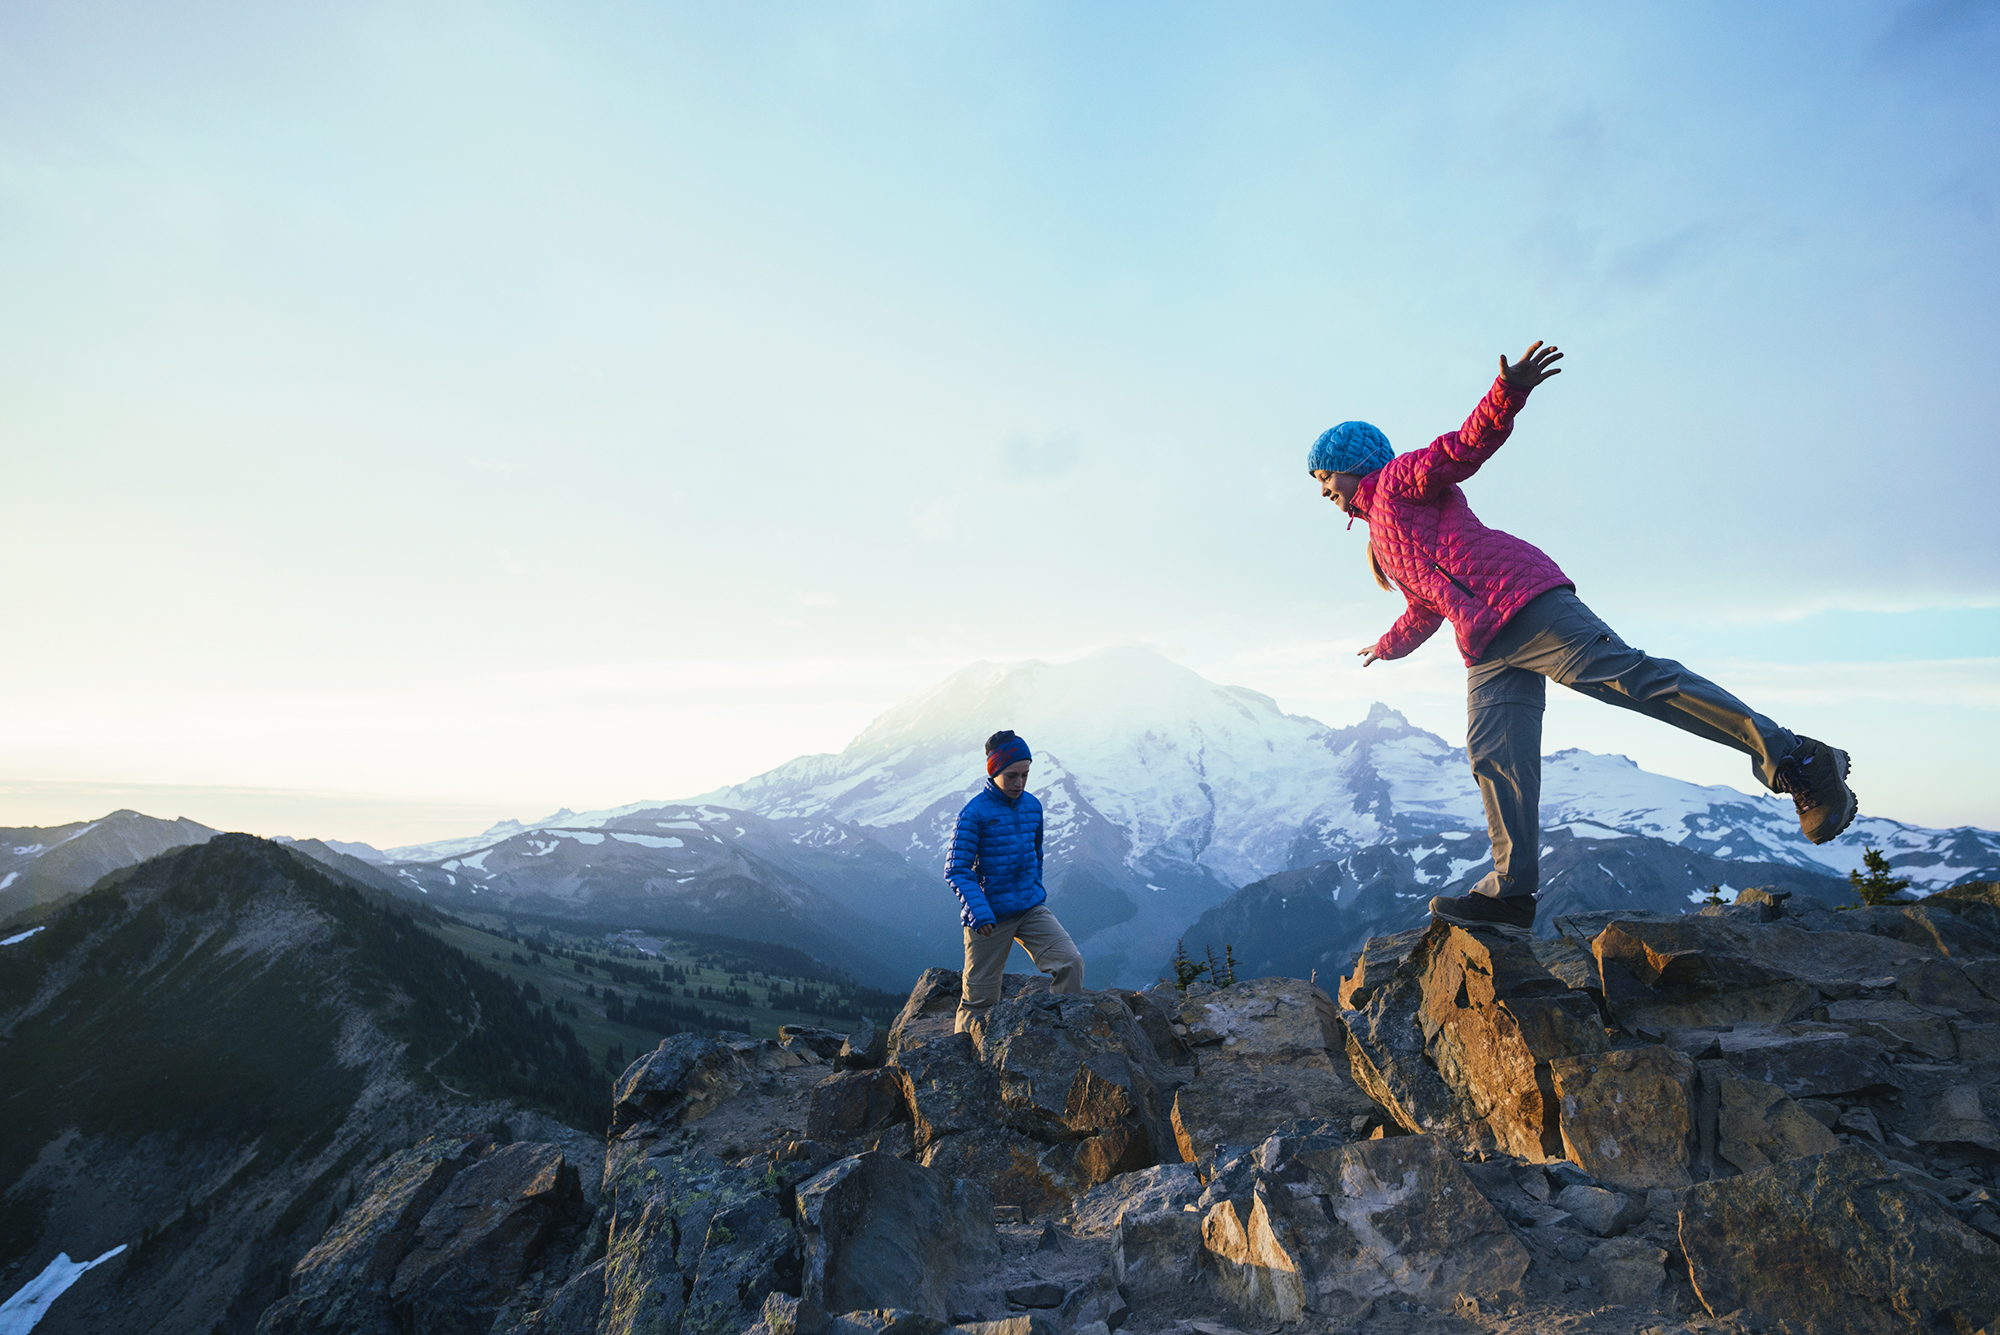
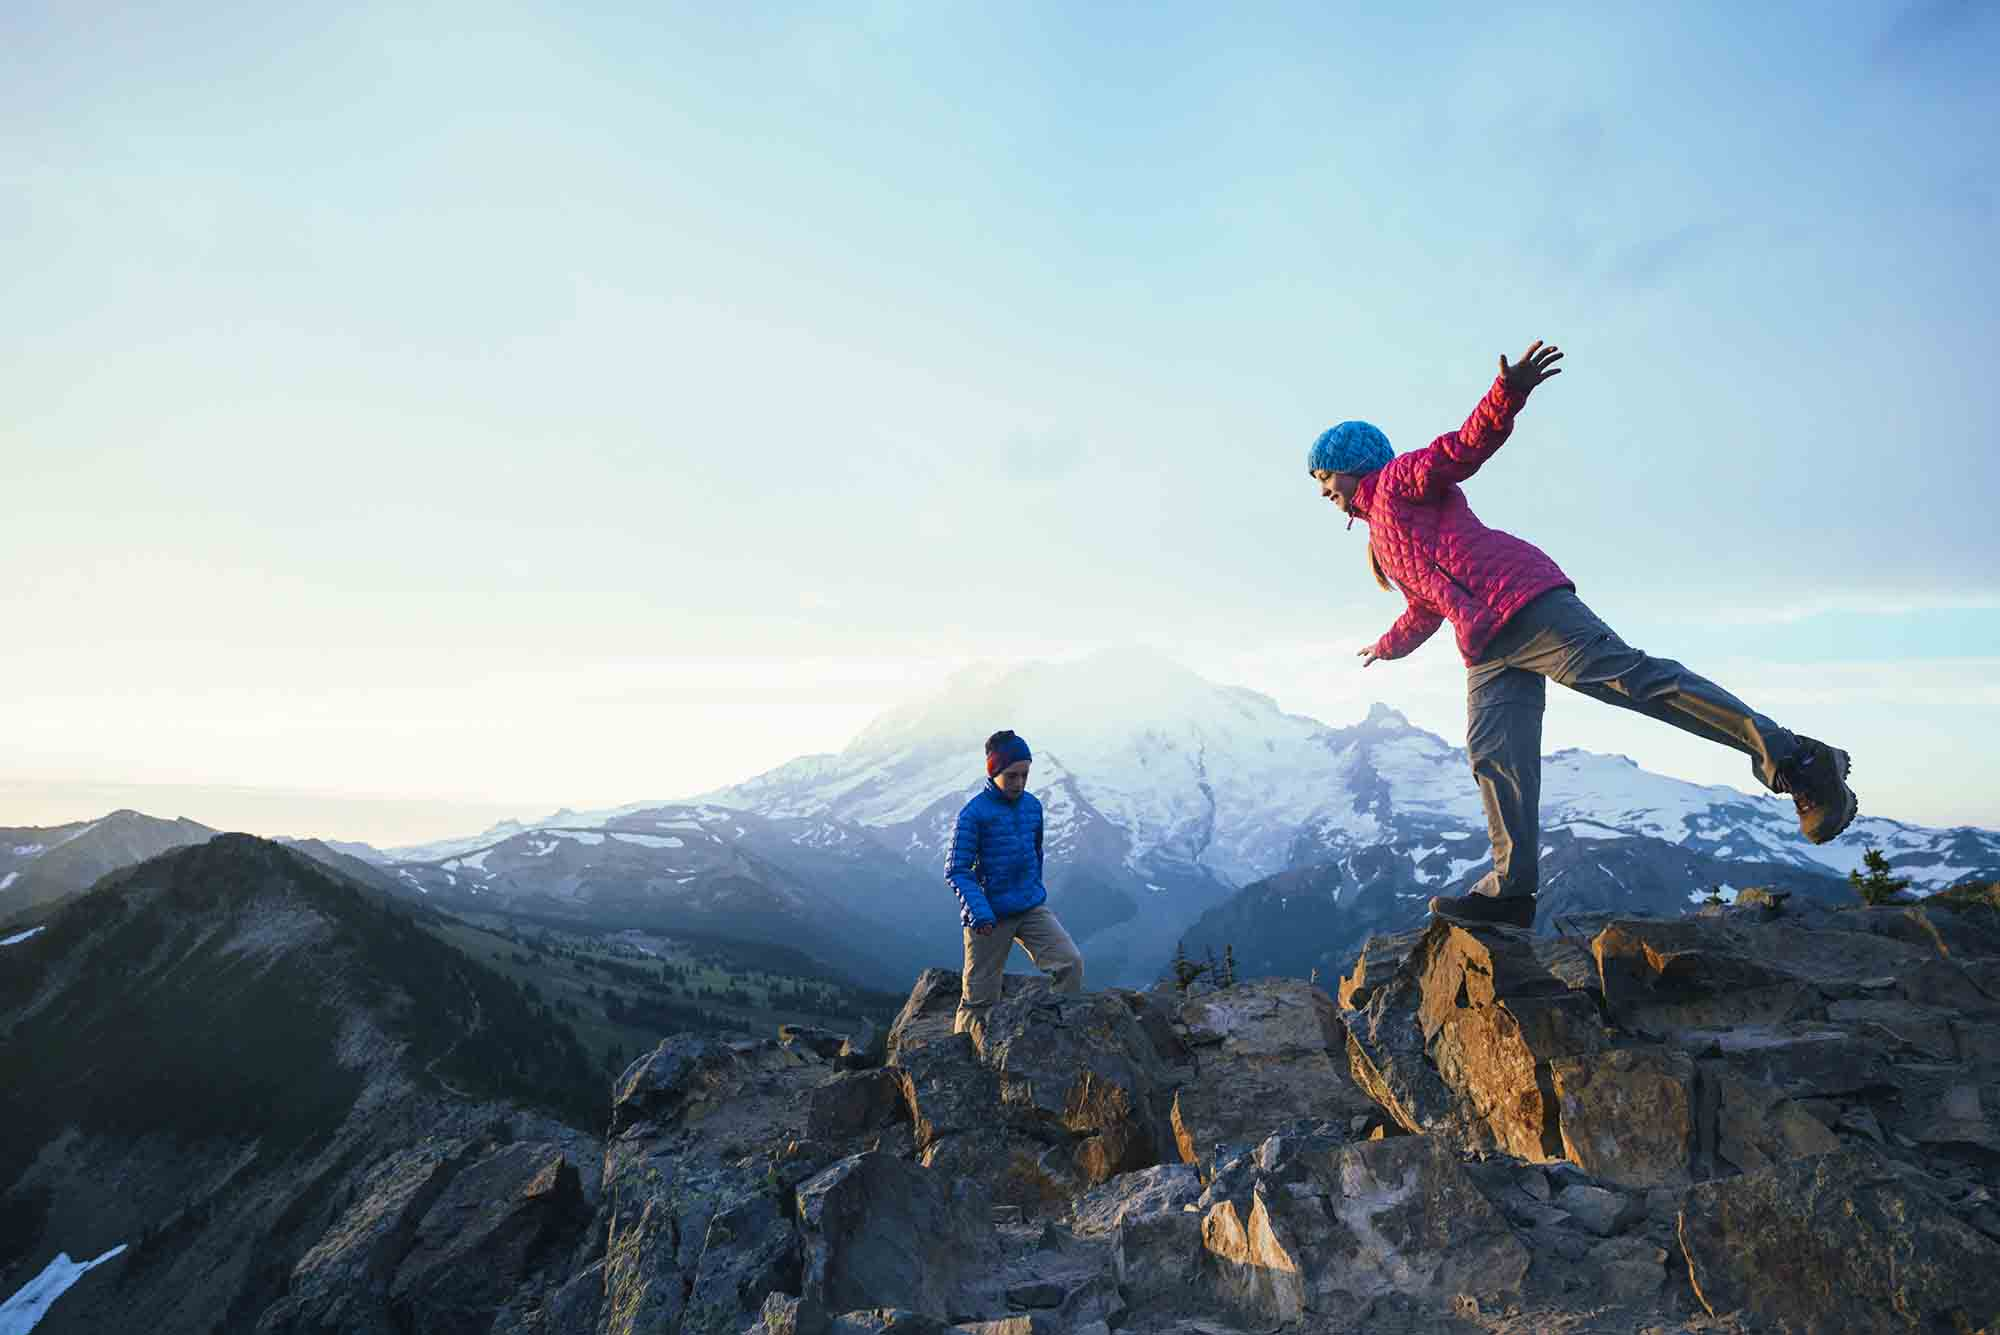
optimized pictures

diff --git a/public/main/contact.html b/public/main/contact.html
@@ -22,7 +22,6 @@
 	<!-- html imports -->
 	<link rel="import" href="templates/header-navbar.html">
 	<link rel="import" href="templates/page-footer.html">
-	<link rel="import" href="templates/mapify-this.html">
 	<style>
 	.maps iframe {
 		pointer-events: none;
@@ -55,7 +54,6 @@
 					<p>To guarantee that we stay focused, Inter Land. has extensive experience in supporting the business requirements through the implementation of ERP and custom Web applications; developing supply chain management solutions; unifying sales, marketing and service departments through customer relationship management systems; implementing E- commerce strategies; creating corporate portals and outsourcing applications.</p>
 					<p>ensures that the quality of services delivered exceed expectations. We offer practical, efficient and cost effective solutions virtually anytime, anywhere. This enables us to deliver solutions with better results in a shorter time and at lower cost to bring greater benefits to your business. All of our efforts are centered on customer satisfaction.</p>
 				</div>
-				<p class="right grey-text text-lighten-1"><i onclick="Materialize.toast('<p style=\'margin-top:5px;margin-bottom:5px;\'><i class=\'material-icons\' style=\'color: #3BCDBF;\'>color_lens</i> &nbsp;Developed by &nbsp;<a href=\'https://twitter.com/vajahath7\' style=\'color:#3BCDBF; \'><strong> @vajahath7</strong></a> &nbsp; and &nbsp;<strong><a href=\'https://twitter.com/ajml_nazir\' style=\'color:#3BCDBF; \'> @ajml_nazir</a></strong>.</p>', 2500)" style="font-size: 14px;" class="material-icons">info_outline</i></p>
 			</div>
 		</div>
 	</div>

diff --git a/public/main/index.html b/public/main/index.html
@@ -39,7 +39,7 @@
 				<br>
 			</div>
 		</div>
-		<div class="parallax"><img src="images/business.jpg" alt="header background business"></div>
+		<div class="parallax"><img src="images/business1.jpg" alt="header background business"></div>
 	</div>
 
 	<!-- left-light -->
@@ -68,7 +68,7 @@
 				<div class="col m3">
 					<div class="card">
 						<div class="card-image">
-							<img src="images/scooter.png">
+							<img src="images/CRM.jpg">
 							<span class="card-title">CRM Solutions</span>
 						</div>
 						<div class="card-content">
@@ -83,7 +83,7 @@
 				<div class="col m3">
 					<div class="card">
 						<div class="card-image">
-							<img src="images/boat.png">
+							<img src="images/it.jpg">
 							<span class="card-title">IT Service Management</span>
 						</div>
 						<div class="card-content">
@@ -98,7 +98,7 @@
 				<div class="col m3">
 					<div class="card">
 						<div class="card-image">
-							<img src="images/sms.png">
+							<img src="images/sms.jpg">
 							<span class="card-title">Bulk SMS Gateway</span>
 						</div>
 						<div class="card-content">
@@ -113,7 +113,7 @@
 				<div class="col m3">
 					<div class="card">
 						<div class="card-image">
-							<img src="images/school.png">
+							<img src="images/school.jpg">
 							<span class="card-title">School Manager</span>
 						</div>
 						<div class="card-content">

diff --git a/public/main/templates/page-footer.html b/public/main/templates/page-footer.html
@@ -31,13 +31,13 @@
 					</div>
 					<div class="col m3 s12">
 						<ul>
-							<li><a class="teal-text text-lighten-1" href="index.html">Home</a></li>
-							<li><a class="teal-text text-lighten-1" href="products.html">Products</a></li>
-							<li><a class="teal-text text-lighten-1" href="services.html">Services</a></li>
-							<li><a class="teal-text text-lighten-1" href="consult.html">Consult</a></li>
-							<li><a class="teal-text text-lighten-1" href="edu.html">Education</a></li>
-							<li><a class="teal-text text-lighten-1" href="partners.html">Partners</a></li>
-							<li><a class="teal-text text-lighten-1" href="careers.html">Careers</a></li>
+							<li><a class="teal-text text-lighten-1" href="../index.html">Home</a></li>
+							<li><a class="teal-text text-lighten-1" href="../products.html">Products</a></li>
+							<li><a class="teal-text text-lighten-1" href="../services.html">Services</a></li>
+							<li><a class="teal-text text-lighten-1" href="../consult.html">Consult</a></li>
+							<li><a class="teal-text text-lighten-1" href="../edu.html">Education</a></li>
+							<li><a class="teal-text text-lighten-1" href="../partners.html">Partners</a></li>
+							<li><a class="teal-text text-lighten-1" href="../careers.html">Careers</a></li>
 						</ul>
 					</div>
 				</div>

diff --git a/public/main/about.html b/public/main/about.html
@@ -60,7 +60,6 @@
 					<!-- add new things -->
 					<h4></h4>
 				</div>
-				<p class="right grey-text text-lighten-1"><i onclick="Materialize.toast('<p style=\'margin-top:5px;margin-bottom:5px;\'><i class=\'material-icons\' style=\'color: #3BCDBF;\'>color_lens</i> &nbsp;Developed by &nbsp;<a href=\'https://twitter.com/vajahath7\' style=\'color:#3BCDBF; \'><strong> @vajahath7</strong></a> &nbsp; and &nbsp;<strong><a href=\'https://twitter.com/ajml_nazir\' style=\'color:#3BCDBF; \'> @ajml_nazir</a></strong>.</p>', 2500)" style="font-size: 14px;" class="material-icons">info_outline</i></p>
 			</div>
 		</div>
 	</div>
